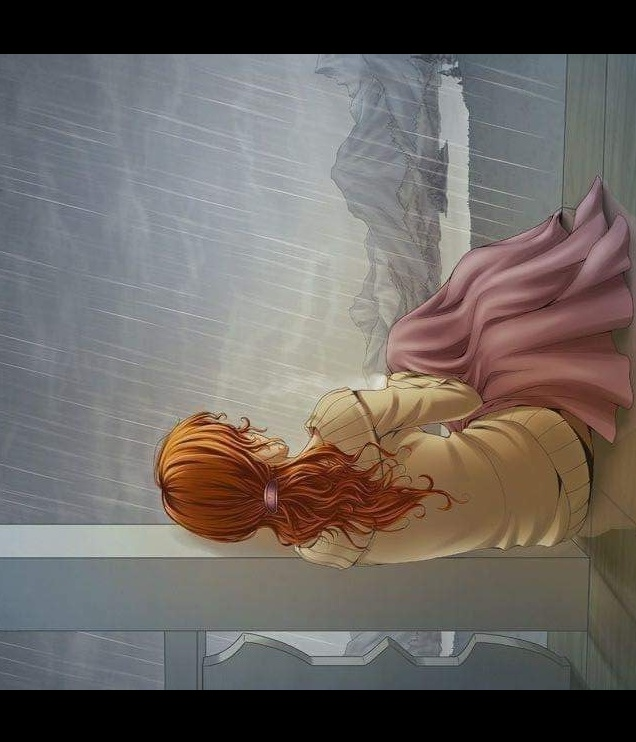
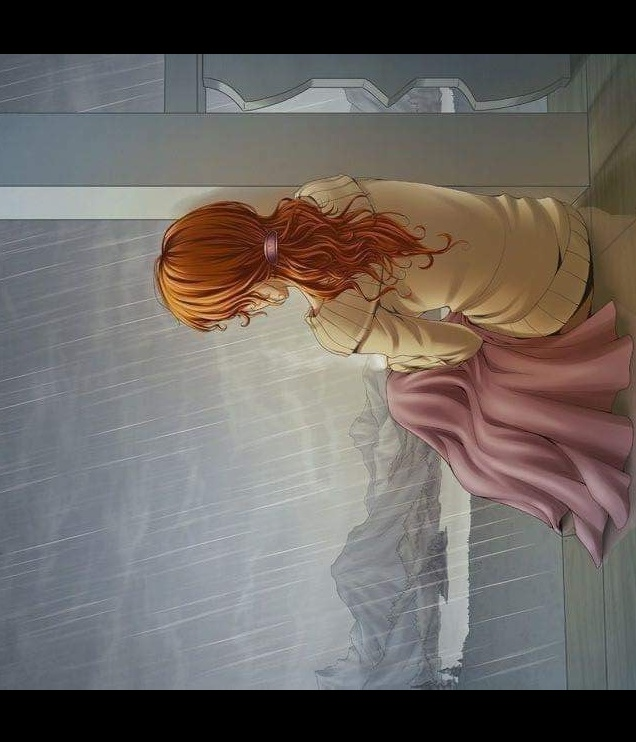
added the image  flipping effect

diff --git a/example5.py b/example5.py
@@ -3,6 +3,9 @@ import imutils
 
 """ Images Transformation """
 image = cv2.imread('testpic.jpg')
+image = cv2.flip(image,1) #fliping an image
+cv2.imshow('rotation', image)
+cv2.waitKey(0)
 
 rotated = imutils.rotate(image, 90) #Image rotation
 resized = imutils.resize(image, width = 300) #We defne here a new size to our image
@@ -10,8 +13,6 @@ translated = imutils.translate(image,100,0) #décalage de l'image
 
 
 cv2.imwrite('rotated.jpg', rotated) 
-cv2.imshow('rotation', image)
-cv2.waitKey(0)
 
 cv2.imwrite('resized.jpg', resized) 
 cv2.imwrite('translated.jpg', translated) 
